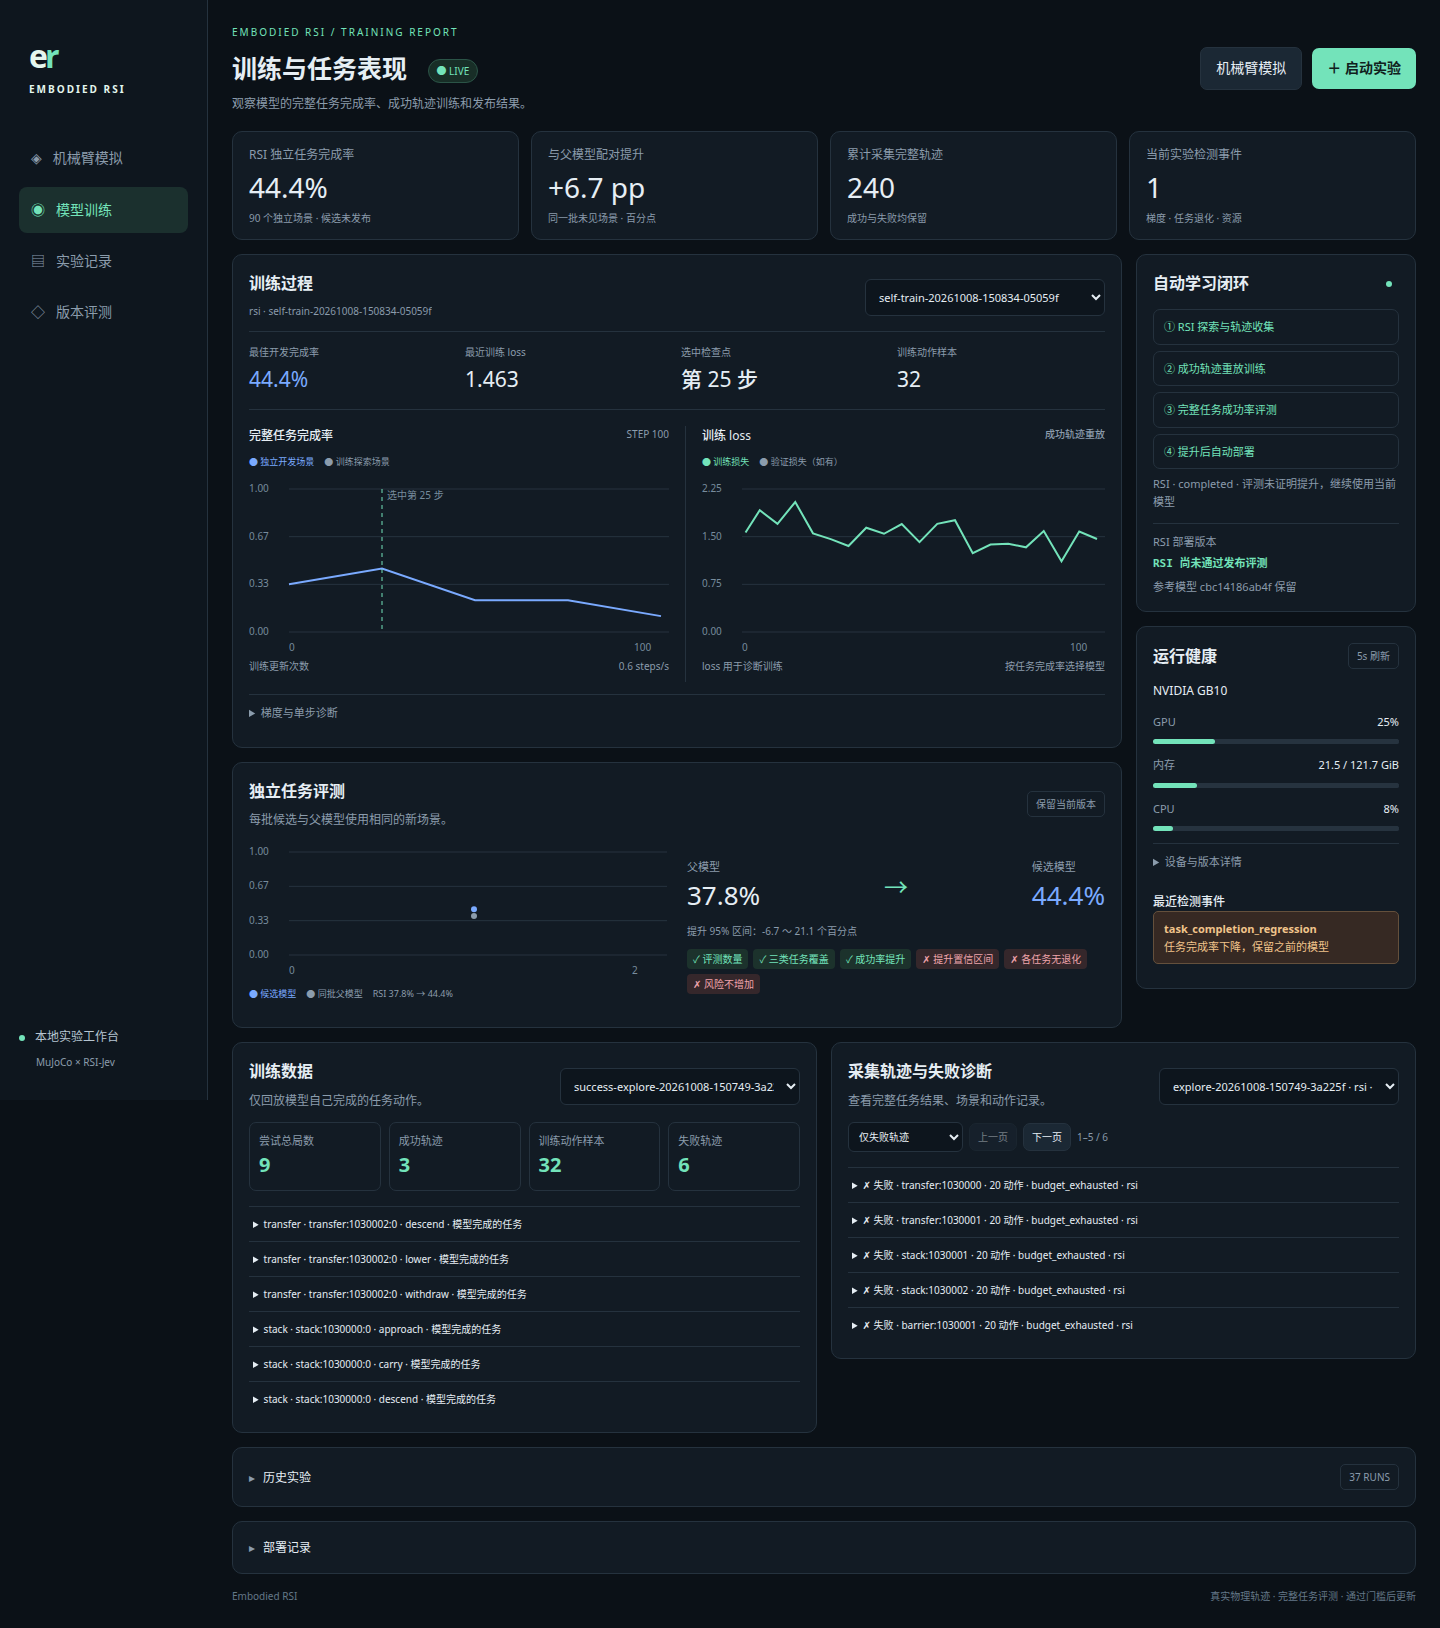
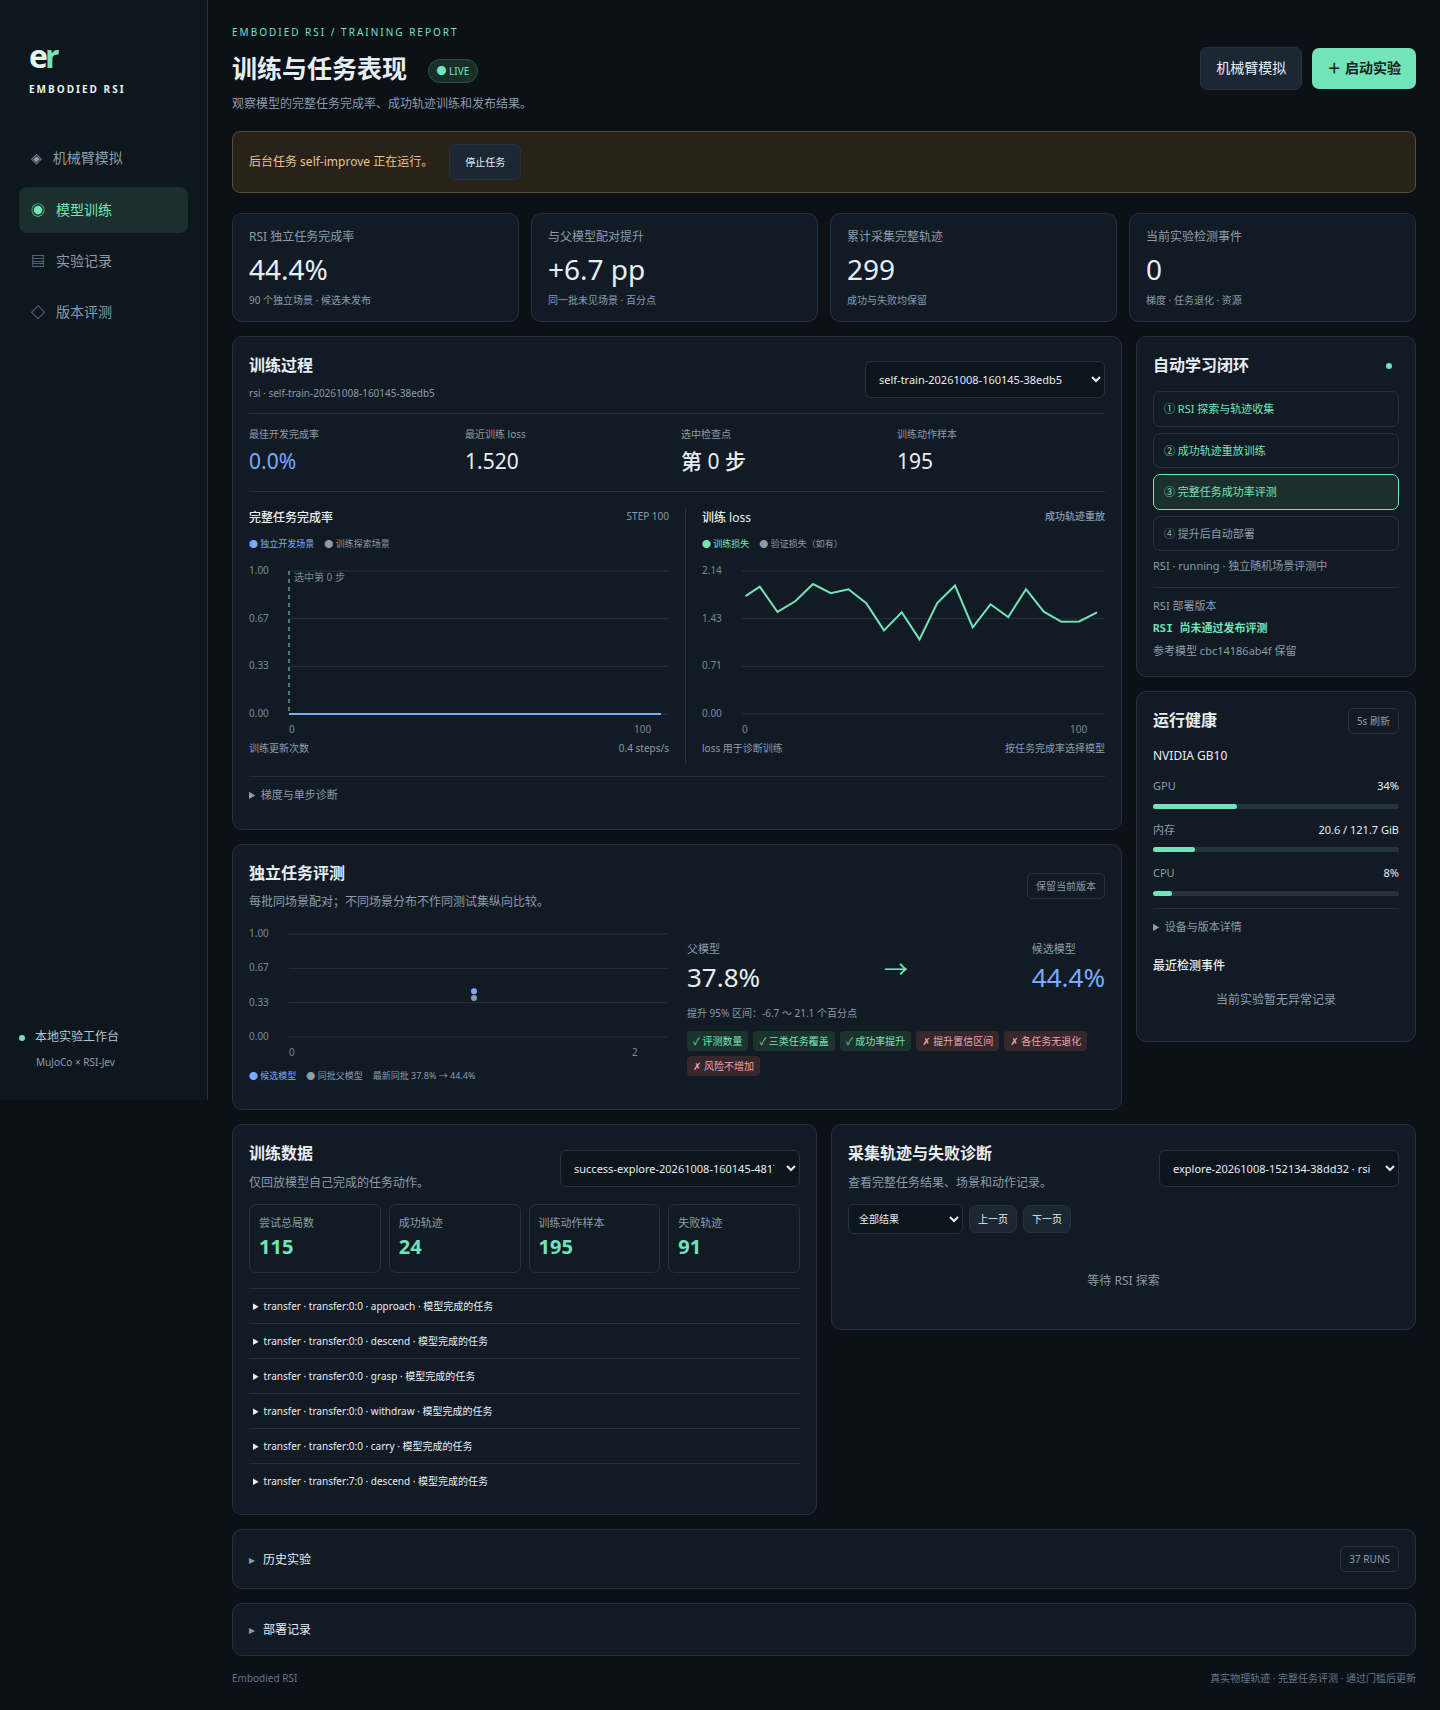
Clarify release status and refresh the live training report

diff --git a/src/embodied_rsi/web/app.js b/src/embodied_rsi/web/app.js
@@ -61,7 +61,7 @@ function renderOverview(o){
   let report=runs.find(r=>r.kind==='evaluate'&&r.status==='completed')?.summary;
   const rsiReports=runs.filter(r=>r.kind==='evaluate'&&r.status==='completed'&&(r.summary.model_backend==='rsi-jev'||runs.find(t=>r.summary.candidate_checkpoint?.includes(t.id)&&t.backend.includes('rsi')))).reverse();
   chart('version-chart',[{color:'#7aaaff',points:rsiReports.map((r,i)=>[i+1,r.summary.success_rate])},{color:'#8b9cac',points:rsiReports.map((r,i)=>[i+1,r.summary.champion_success_rate])}],1);
-  if(rsiReports.length)report=rsiReports.at(-1).summary;$('success-title').textContent=rsiReports.length?'RSI 独立任务完成率':'参考实验完成率（非 RSI）';$('rsi-progress-label').textContent=rsiReports.length?`RSI ${pct(rsiReports[0].summary.champion_success_rate)} → ${pct(rsiReports.at(-1).summary.success_rate)}`:'尚无 RSI 独立任务评测 · 参考模型单独报告';
+  if(rsiReports.length)report=rsiReports.at(-1).summary;$('success-title').textContent=rsiReports.length?'RSI 独立任务完成率':'参考实验完成率（非 RSI）';$('rsi-progress-label').textContent=rsiReports.length?`最新同批 ${pct(rsiReports.at(-1).summary.champion_success_rate)} → ${pct(rsiReports.at(-1).summary.success_rate)}`:'尚无 RSI 独立任务评测 · 参考模型单独报告';
   $('success-rate').textContent=pct(report?.success_rate);$('gain').textContent=Number.isFinite(report?.paired_gain)?`${report.paired_gain>=0?'+':''}${(report.paired_gain*100).toFixed(1)} pp`:'—';$('success-sub').textContent=report?`${report.pairs} 个独立场景 · ${report.gate.passed?'已通过发布门槛':'候选未发布'}`:'完整任务 · 三类机械臂场景';
   if(report){$('gate-badge').textContent=report.gate.passed?'通过晋级标准':'保留当前版本';$('evaluation-body').className='';$('evaluation-body').innerHTML=`<div class="eval-comparison"><div><span>父模型</span><strong>${pct(report.champion_success_rate)}</strong></div><span class="eval-arrow">→</span><div><span>候选模型</span><strong>${pct(report.success_rate)}</strong></div></div><p class="eval-ci">提升 95% 区间：${(report.gain_ci95[0]*100).toFixed(1)} ～ ${(report.gain_ci95[1]*100).toFixed(1)} 个百分点</p><div class="gate-checks">${Object.entries(report.gate.checks).map(([k,v])=>`<span class="${v?'passed':'rejected'}">${v?'✓':'✗'} ${escape(({enough_pairs:'评测数量',task_coverage:'三类任务覆盖',success_gain:'成功率提升',confidence_interval:'提升置信区间',no_task_regression:'各任务无退化',no_risk_increase:'风险不增加'})[k]||k)}</span>`).join('')}</div>`;}
 }
@@ -69,7 +69,7 @@ function updateOptions(id,items,placeholder){const el=$(id),value=el.value;el.in
 async function selectRun(id){selectionPinned=true;selected=id;events=[];cursor=0;renderEvents();await poll();}
 async function renderData(){dataId=$('data-select').value;if(!dataId)return;const manifest=lastOverview.datasets.find(d=>d.id===dataId);$('data-stats').innerHTML=[['尝试总局数',manifest.episodes_total??'—'],['成功轨迹',manifest.successful_episodes??'示范集'],['训练动作样本',manifest.cases.train],['失败轨迹',manifest.failed_episodes??'—']].map(([k,v])=>`<div>${k}<b>${escape(v)}</b></div>`).join('');try{const data=await api(`/api/datasets/${dataId}/samples?limit=8`);$('data-samples').className=data.samples.length?'':'empty';$('data-samples').innerHTML=data.samples.length?data.samples.map(c=>`<details class="sample-record"><summary>${escape(c.provenance.task||c.source)} · ${escape(c.provenance.group)} · ${escape(c.provenance.choice||c.provenance.label_source)} · ${c.provenance.episode_success?'模型完成的任务':'初始化样本'}</summary><pre>${escape(JSON.stringify({...c,state:JSON.parse(c.state)},null,2))}</pre></details>`).join(''):'当前没有成功轨迹，训练尚未开始。';}catch(e){$('data-samples').textContent=e.message;}}
 async function renderTrajectories(){trajectoryId=$('trajectory-select').value;if(!trajectoryId)return;try{const data=await api(`/api/runs/${trajectoryId}/episodes?outcome=${$('trajectory-outcome').value}&offset=${trajectoryOffset}&limit=5`);$('trajectory-page').textContent=`${Math.min(trajectoryOffset+1,data.total)}–${Math.min(trajectoryOffset+5,data.total)} / ${data.total}`;$('trajectory-prev').disabled=trajectoryOffset===0;$('trajectory-next').disabled=trajectoryOffset+5>=data.total;$('trajectory-samples').className=data.episodes.length?'':'empty';$('trajectory-samples').innerHTML=data.episodes.length?data.episodes.map(e=>`<details class="sample-record"><summary>${e.success?'✓ 完成':'✗ 失败'} · ${escape(e.task)}:${e.seed} · ${e.steps} 动作 · ${escape(e.failure||'稳定完成')} · ${escape(e.source_policy||'')}</summary><pre>${escape(JSON.stringify(e,null,2))}</pre></details>`).join(''):'此筛选条件下暂无轨迹。';}catch(e){$('trajectory-samples').textContent=e.message;}}
-function renderPipeline(run,rows=[]){const stages=rows.filter(e=>e.kind==='stage'),last=stages.at(-1)?.payload,self=run?.kind==='self-improve',keys=self?['exploring','success_replay_training','independent_evaluation','deploying']:['initialization','task_training','independent_evaluation','deploying'],labels=self?['① RSI 探索与轨迹收集','② 成功轨迹重放训练','③ 完整任务成功率评测','④ 提升后自动部署']:['① 示范初始化（可跳过）','② 完整任务奖励训练','③ 独立任务完成率评测','④ 达标后自动部署'];let index=keys.indexOf(last?.stage);if(last?.stage==='completed'||last?.stage==='retained_current_model')index=4;$('pipeline').innerHTML=keys.map((k,i)=>`<div class="pipeline-stage ${i===index?'current':i<index?'done':''}">${labels[i]}</div>`).join('');$('pipeline-message').textContent=run?`${run.backend.toUpperCase()} · ${run.status} · ${last?.status==='no_success_data'?'没有成功轨迹，跳过训练并保留失败数据':last?.status==='retained_current_model'||last?.stage==='retained_current_model'?'评测未证明提升，继续使用当前模型':last?.status==='deployed'?'优化模型已自动部署':({exploring:'采集模型轨迹',success_replay_training:'成功轨迹训练中',independent_evaluation:'独立随机场景评测中',deploying:'正在验证并部署'})[last?.stage]||last?.stage||'等待开始'}`:'启动 RSI 自我提升，收集模型完成的任务轨迹后训练。';}
+function renderPipeline(run,rows=[]){const stages=rows.filter(e=>e.kind==='stage'),last=stages.at(-1)?.payload,self=run?.kind==='self-improve',keys=self?['exploring','success_replay_training','independent_evaluation','deploying']:['initialization','task_training','independent_evaluation','deploying'],labels=self?['① RSI 探索与轨迹收集','② 成功轨迹重放训练','③ 完整任务成功率评测','④ 提升后自动部署']:['① 示范初始化（可跳过）','② 完整任务奖励训练','③ 独立任务完成率评测','④ 达标后自动部署'];let index=keys.indexOf(last?.stage);if(last?.stage==='completed'||last?.stage==='retained_current_model')index=4;$('pipeline').innerHTML=keys.map((k,i)=>`<div class="pipeline-stage ${i===3&&last?.status==='retained_current_model'?'blocked':i>=1&&last?.status==='no_success_data'?'blocked':i===index?'current':i<index?'done':''}">${i===3&&last?.status==='retained_current_model'?'④ 未发布 · 保留当前模型':labels[i]}</div>`).join('');$('pipeline-message').textContent=run?`${run.backend.toUpperCase()} · ${run.status} · ${last?.status==='no_success_data'?'没有成功轨迹，跳过训练并保留失败数据':last?.status==='retained_current_model'||last?.stage==='retained_current_model'?'评测未证明提升，继续使用当前模型':last?.status==='deployed'?'优化模型已自动部署':({exploring:'采集模型轨迹',success_replay_training:'成功轨迹训练中',independent_evaluation:'独立随机场景评测中',deploying:'正在验证并部署'})[last?.stage]||last?.stage||'等待开始'}`:'启动 RSI 自我提升，收集模型完成的任务轨迹后训练。';}
 async function poll(){if(fetching)return;fetching=true;try{const o=await api('/api/overview');renderOverview(o);if(selected){const data=await api(`/api/runs/${selected}/events?after=${cursor}`);events.push(...data.events);if(data.events.length)cursor=data.events.at(-1).seq;renderEvents();}const cycle=o.runs.find(r=>['self-improve','cycle'].includes(r.kind));renderPipeline(cycle,cycle?(await api(`/api/runs/${cycle.id}/events`)).events:[]);const activeExplore=o.runs.find(r=>r.id===trajectoryId);if(activeExplore?.status==='running')await renderTrajectories();$('connection').textContent='● LIVE';}catch(e){$('connection').textContent='连接中断';}finally{fetching=false;}}
 $('run-select').onchange=e=>selectRun(e.target.value);
 $('open-job').onclick=()=>{$('job-error').textContent='';$('job-dialog').showModal();};$('close-job').onclick=()=>$('job-dialog').close();

diff --git a/src/embodied_rsi/web/index.html b/src/embodied_rsi/web/index.html
@@ -11,7 +11,7 @@
 <section class="panel learning"><div class="panel-head"><div><h2>训练过程</h2><p id="run-description">选择实验查看训练过程</p></div><select id="run-select" aria-label="选择实验"></select></div><div class="run-summary"><div><span>最佳开发完成率</span><b id="dev-best">—</b></div><div><span>最近训练 loss</span><b id="loss-current">—</b></div><div><span>选中检查点</span><b id="best-step">—</b></div><div><span>训练动作样本</span><b id="training-sample-count">—</b></div></div>
 <div class="training-charts"><div><h3>完整任务完成率 <span id="step-label">STEP —</span></h3><div class="legend"><span class="blue">● 独立开发场景</span><span class="green">● 训练探索场景</span></div><div id="task-chart" class="chart"></div><div class="chart-foot"><span>训练更新次数</span><span id="throughput">— steps/s</span></div></div><div><h3>训练 loss <span id="loss-label">成功轨迹重放</span></h3><div class="legend"><span class="green">● 训练损失</span><span class="blue">● 验证损失（如有）</span></div><div id="loss-chart" class="chart"></div><div class="chart-foot"><span>loss 用于诊断训练</span><span>按任务完成率选择模型</span></div></div></div>
 <details class="advanced"><summary>梯度与单步诊断</summary><div class="diagnostic-values"><span>训练目标 <b id="loss">—</b></span><span id="loss-sub"></span><span>单步标签准确率 <b id="accuracy">—</b></span></div><div class="mini-charts"><div><h3>梯度范数</h3><div id="grad-chart" class="chart mini"></div></div><div><h3>初始化标签准确率</h3><div id="acc-chart" class="chart mini"></div></div></div></details></section>
-<section class="panel" id="evaluation"><div class="panel-head"><div><h2>独立任务评测</h2><p>每批候选与父模型使用相同的新场景。</p></div><span class="pill" id="gate-badge">等待评测</span></div><div class="evaluation-overview"><div><div id="version-chart" class="chart"></div><div class="legend"><span class="blue">● 候选模型</span><span class="muted">● 同批父模型</span><span id="rsi-progress-label">等待 RSI 评测</span></div></div><div id="evaluation-body" class="empty">完成训练后进行独立配对评测。</div></div></section>
+<section class="panel" id="evaluation"><div class="panel-head"><div><h2>独立任务评测</h2><p>每批同场景配对；不同场景分布不作同测试集纵向比较。</p></div><span class="pill" id="gate-badge">等待评测</span></div><div class="evaluation-overview"><div><div id="version-chart" class="chart"></div><div class="legend"><span class="blue">● 候选模型</span><span class="muted">● 同批父模型</span><span id="rsi-progress-label">等待 RSI 评测</span></div></div><div id="evaluation-body" class="empty">完成训练后进行独立配对评测。</div></div></section>
 </div><div class="report-side">
 <section class="panel"><div class="panel-head"><h2>自动学习闭环</h2><span class="dot"></span></div><div class="pipeline" id="pipeline"></div><p id="pipeline-message">达到采集阈值后自动训练。</p><div class="deployment-strip"><span>RSI 部署版本</span><b id="deployed-version">等待评测</b><span id="deployed-at"></span></div></section>
 <section class="panel diagnostics"><div class="panel-head"><h2>运行健康</h2><span class="pill">5s 刷新</span></div><div id="gpu-name" class="device">GPU 未报告</div><div class="resource"><label>GPU <b id="gpu-util">—</b></label><progress id="gpu-bar" max="100" value="0"></progress></div><div class="resource"><label>内存 <b id="ram-value">—</b></label><progress id="ram-bar" max="100" value="0"></progress></div><div class="resource"><label>CPU <b id="cpu-value">—</b></label><progress id="cpu-bar" max="100" value="0"></progress></div><details class="advanced"><summary>设备与版本详情</summary><div class="facts"><div><span>GPU 温度</span><b id="gpu-temp">—</b></div><div><span>显存</span><b id="gpu-memory">—</b></div><div><span>参考模型</span><b id="champion">尚未晋级</b></div><div><span>数据集</span><b id="dataset-count">0</b></div></div></details><h3 class="alerts-title">最近检测事件</h3><div id="alerts" class="alerts empty">暂无异常记录</div></section>

diff --git a/src/embodied_rsi/web/style.css b/src/embodied_rsi/web/style.css
@@ -23,3 +23,5 @@ main{padding:24px;max-width:1900px}header{margin-bottom:18px}.panel{padding:16px
 .stats{grid-template-columns:repeat(4,minmax(0,1fr))}.stats article{min-width:0}.report-history>summary{justify-content:flex-start}.report-history>summary .pill{margin-left:auto}.training-report #data-samples,.training-report #trajectory-samples{max-height:210px}@media(max-width:720px){.stats{grid-template-columns:repeat(2,minmax(0,1fr))}}
 
 .sim-controls .facts{display:block}.sim-controls .facts>div{min-width:0}.sim-controls .facts b{min-width:0}.control-grid label{min-width:0}input,select{min-width:0}
+
+.pipeline-stage.blocked{background:#322a23;border-color:#564936;color:#d5b994}

diff --git a/docs/VALIDATION.md b/docs/VALIDATION.md
@@ -122,3 +122,5 @@
 新版训练报表浏览器回归：1440、1280、1024、768、390 像素宽度检查通过，无页面 JavaScript 异常和横向溢出；完成率与 loss 并排、最佳第 25 步、数据展开、失败过滤与折叠历史均验证。独立模拟会话实际请求 RSI，随机场景连续执行至少两局，步数预算用尽后重置；人为破坏无关表单值后点击停止，请求仍仅为 `{"action":"stop"}`，停止后的轨迹数保持不变。
 
 已用正式会话的 21 局成功数据与此前 3 局成功数据启动后续 RSI 回放：195 个过滤后的动作样本、100 次更新，训练指标真实记录；后续独立评测使用新的 `workspace-random-v1` 分布。其成绩与上面默认位置分布的 44.44% 不构成同一测试集的纵向对照。
+
+[新版远端 CI](https://github.com/gaohuan2020/embodied-rsi/actions/runs/37748331884) 已通过：干净安装、OSMesa 实际渲染、Ruff 和全部 26 项测试。报表截图来自实际本机训练，未合成指标。
